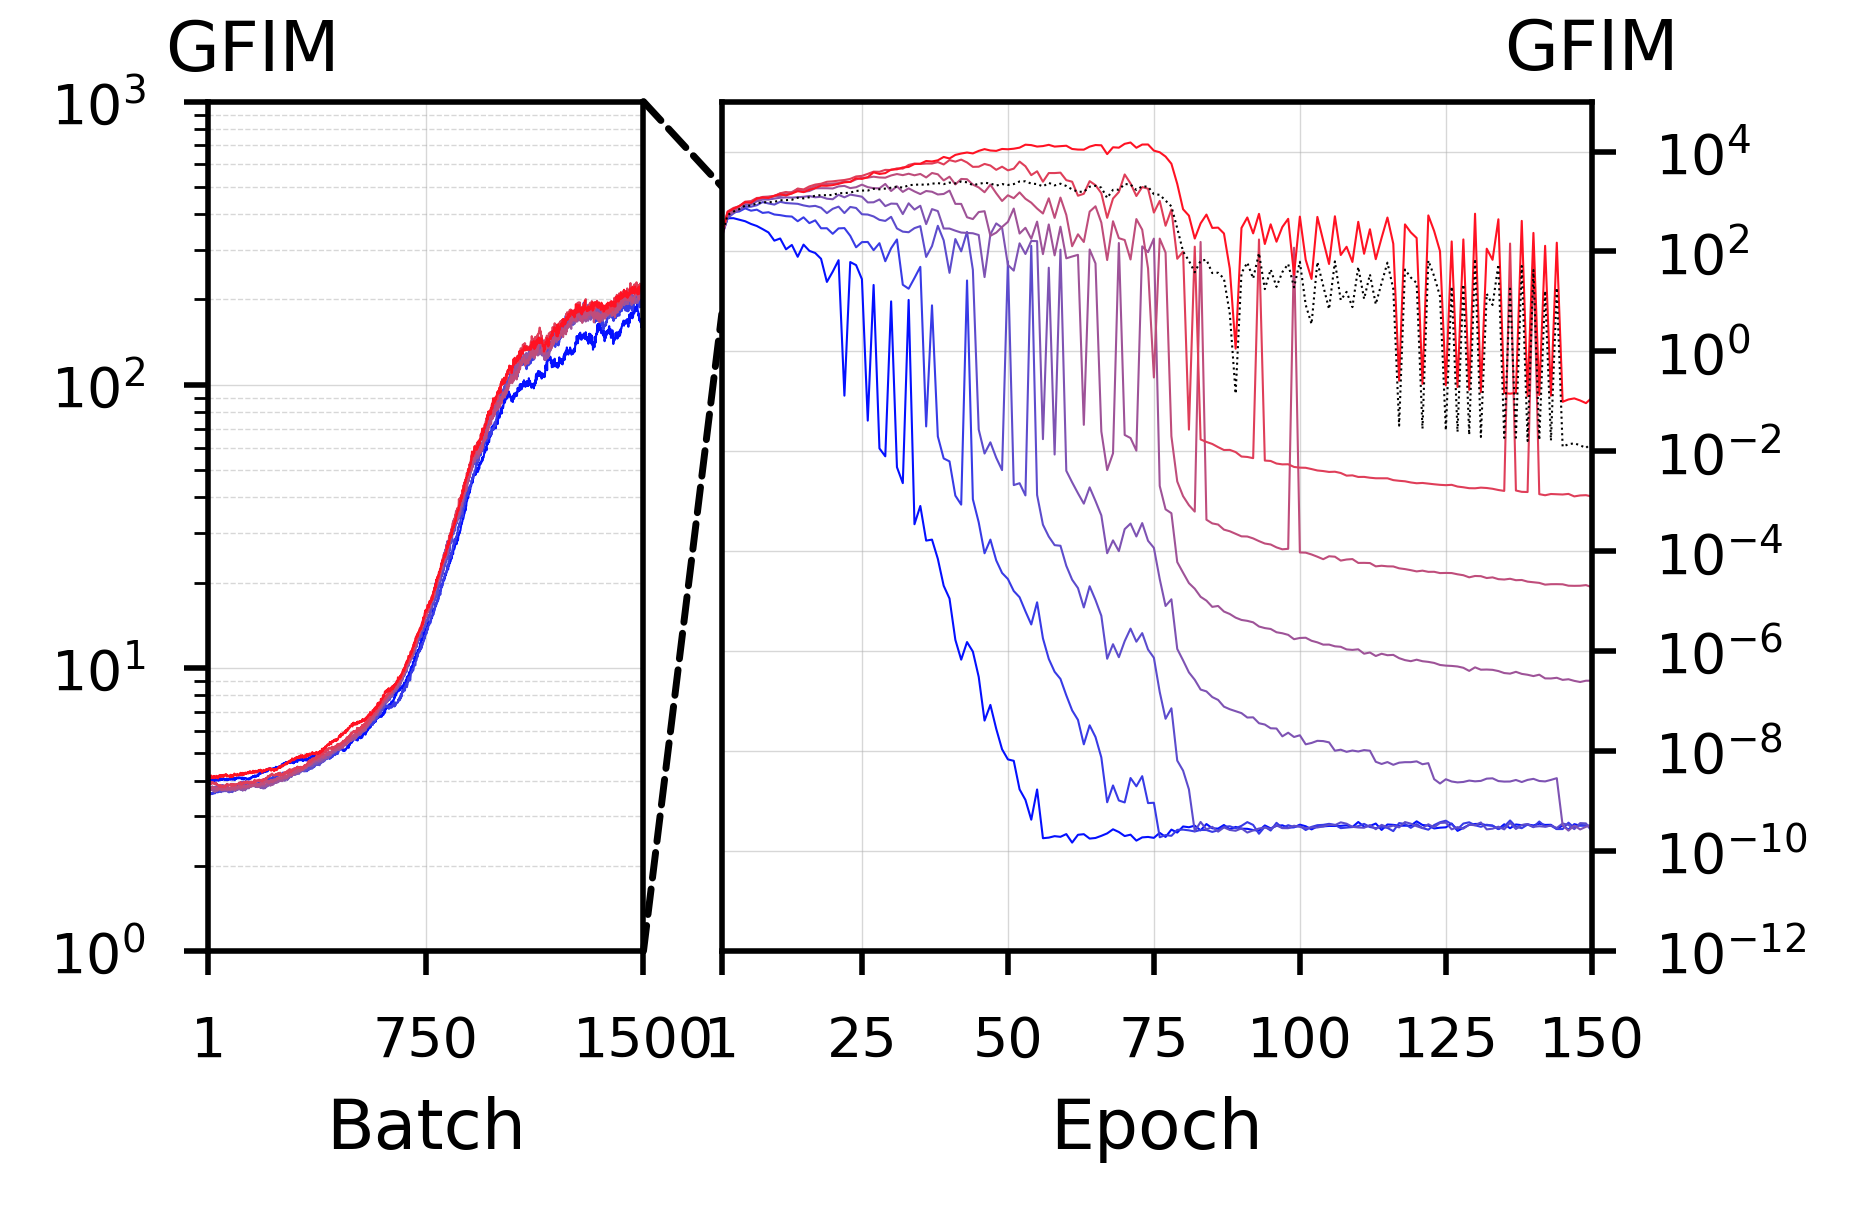
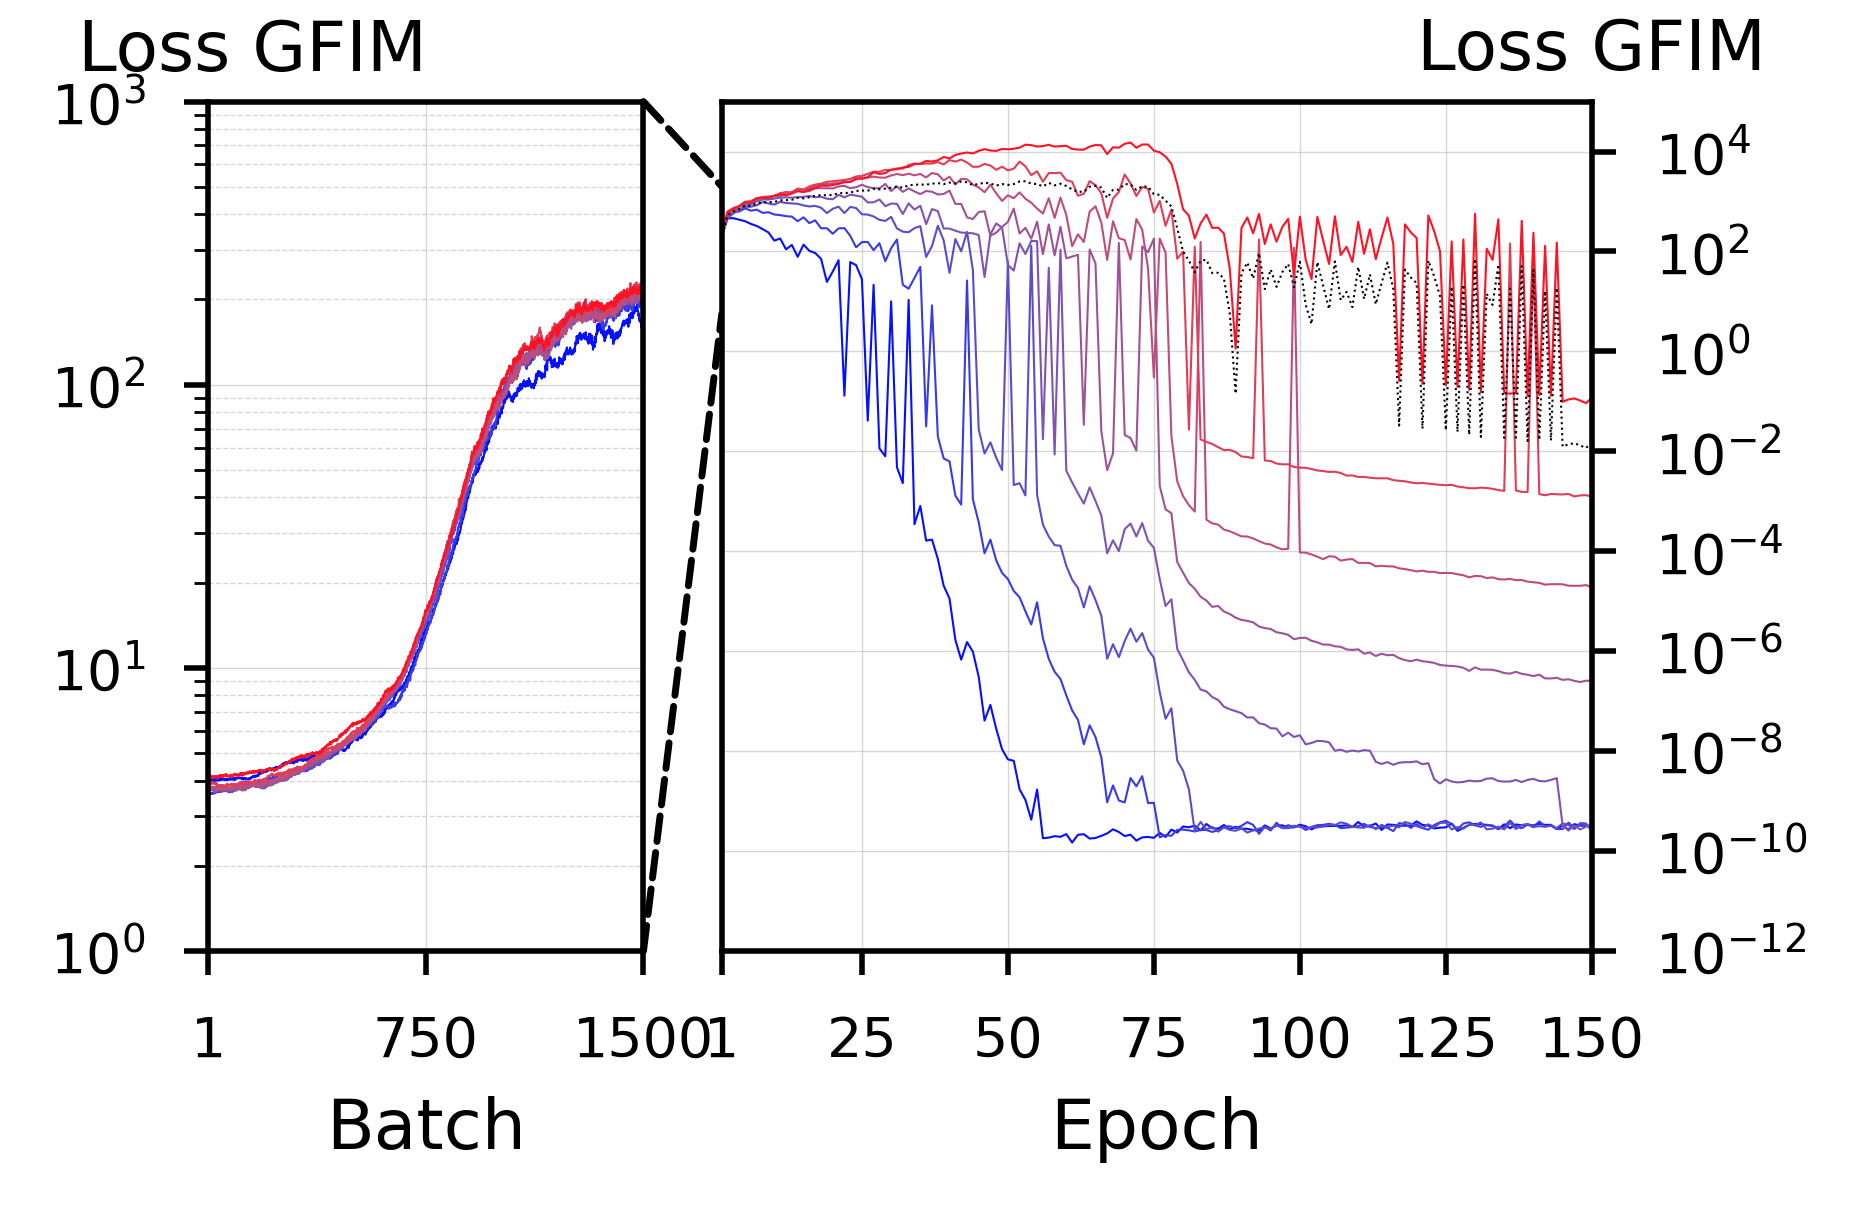
scaled loss graphs and changed lable of GFIM

Changed region(s): [[0.7496, 0.0, 0.9682, 0.061], [0.0312, 0.0, 0.2499, 0.061]]

diff --git a/graphs.py b/graphs.py
@@ -55,7 +55,7 @@ plt.rcParams.update({
 
 #cols = ["#2b1c8f","#7037a3","#a458b7","#d37ccd","#ffa4e4","#fc8bc5","#f672a4","#ec5980"]
 cols = ["#0410ff","#383be6","#5c4ccd","#7e53b3","#9e5398","#bf4d7b","#df3e59","#ff1223"]
-linsize = 0.3
+linsize = 0.6
 
 #OriginalFIM
 def make_OGFIM():
@@ -345,7 +345,7 @@ def make_loss():
     T3 = pd.read_csv('T3_stats.csv',sep=',')
     T4 = pd.read_csv('T4_stats.csv',sep=',')
     
-    fig, ((ax1),(ax2)) = plt.subplots(2,1,figsize=set_size(516,fraction=0.5),gridspec_kw={'hspace':0.1})
+    fig, (ax1,ax2) = plt.subplots(1,2,figsize=set_size(516,height=128,fraction=1),gridspec_kw={'hspace':0.1})
     sea.set(style="whitegrid")
     sea.lineplot(ax=ax1,x="Step",y="train_acc",data=T1,linewidth=linsize,linestyle='-',color='r',label="ResNetV1-14")
     sea.lineplot(ax=ax1,x="Step",y="train_acc",data=T2,linewidth=linsize,linestyle='-',color='g',label="ResNet56")
@@ -360,11 +360,11 @@ def make_loss():
     ax1.set_ylabel("Accuracy")
     ax1.set_ylim([0.2,1.1])
     ax1.yaxis.set_ticks([0.2,0.4,0.6,0.8,1])
-    ax1.set_xlabel("")
+    ax1.set_xlabel("Epochs")
     ax1.set_xlim([1,150])
     ax1.xaxis.set_ticks([1,25,50,75,100,125,150])
-    ax1.tick_params(axis='x', labelbottom=False)
-    ax1.legend(loc='center', bbox_to_anchor=(0.5, -1.8),ncol=4,prop={'size': 6},frameon=False)
+    ax1.tick_params(axis='x', labelbottom=True)
+    ax1.legend(loc='center', bbox_to_anchor=(1, -0.4),ncol=4,prop={'size': 6},frameon=False)
     ax1.grid(True,which='major',axis='both',linestyle='-',linewidth=0.2,alpha=0.5)
     ax1.grid(True,which='minor',axis='both',linestyle='--',linewidth=0.2,alpha=0.5)
 
@@ -503,7 +503,7 @@ def make_T2GFIM():
     sea.lineplot(ax=ax1,x="Step",y="7",data=FIMstep,label="7 (High)",linewidth=linsize,color=cols[7])
     
     #plt.ylabel("T1 GFIM")
-    ax1.set_ylabel("GFIM",rotation=0)
+    ax1.set_ylabel("Loss GFIM",rotation=0)
     ax1.set_ylim((10**0,10**3))
     #ax1.yaxis.set_ticks([1,50,100,150,200])
     ax1.yaxis.set_label_coords(0.1,1.02)
@@ -541,7 +541,7 @@ def make_T2GFIM():
     ax2.xaxis.set_ticks([1,25,50,75,100,125,150])
     
 
-    ax2.set_ylabel("GFIM",rotation=0)
+    ax2.set_ylabel("Loss GFIM",rotation=0)
     ax2.yaxis.set_label_position("right")
     ax2.yaxis.tick_right()
     ax2.yaxis.set_label_coords(1,1.1)
@@ -1328,6 +1328,6 @@ def make_VIT000001():
 
 #make_VIT00001()
 
-make_T4GFIM()
+make_loss()
 
 #make_VIT()
